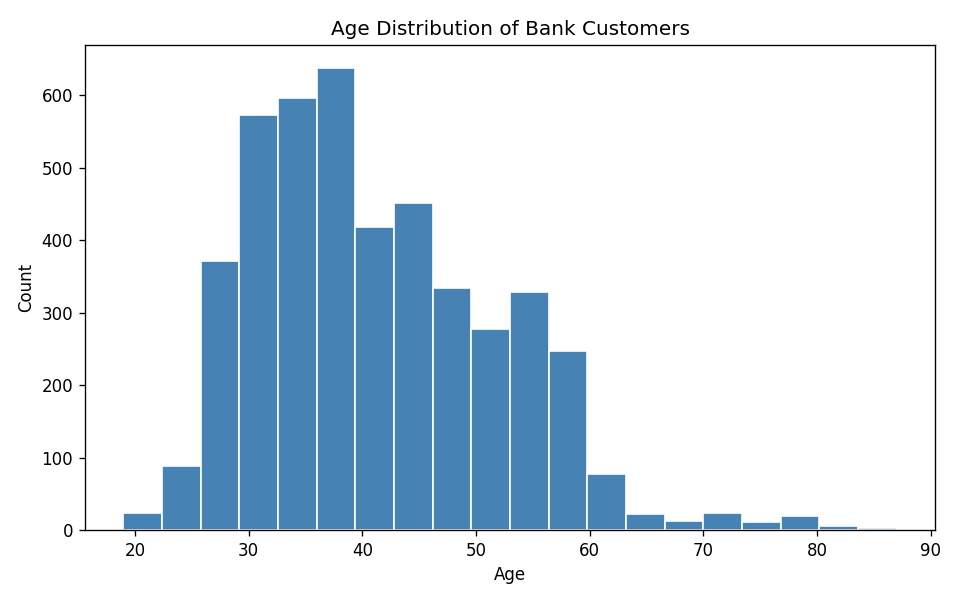
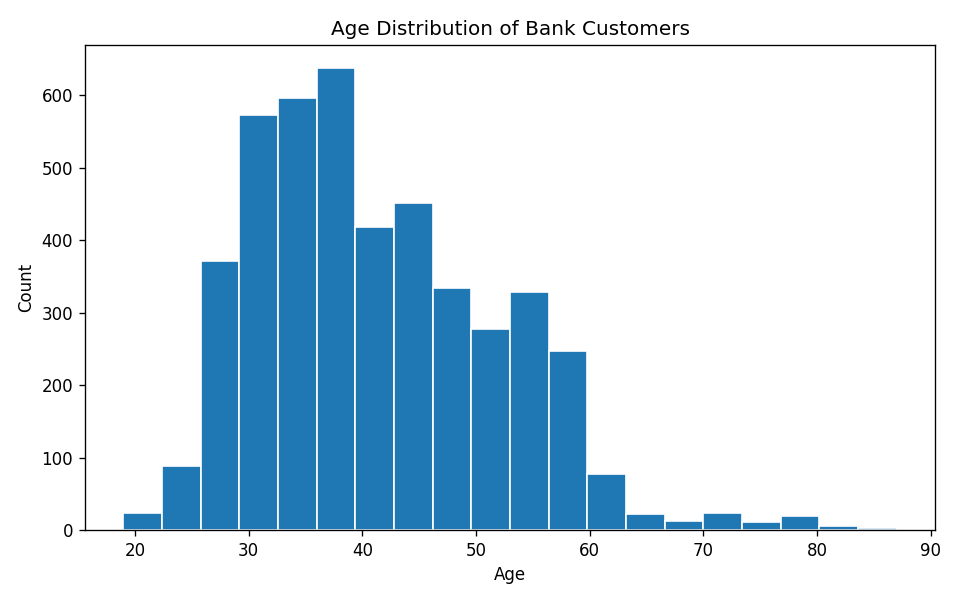
performs EDA with spark and save the artifacts in artifacts

Changed region(s): [[0.125, 0.09, 0.875, 0.9]]

diff --git a/scripts/03_spark_eda.py b/scripts/03_spark_eda.py
@@ -1,84 +1,85 @@
 """
 Exploratory Data Analysis with PySpark.
-Outputs: artifacts/eda/  (plots + summary CSVs)
-Run: spark-submit scripts/03_spark_eda.py
+Outputs: artifacts/eda/ (plots + summary CSVs)
+Run: python scripts/03_spark_eda.py
 """
 
 import sys
 from pathlib import Path
+
 sys.path.insert(0, str(Path(__file__).parent.parent))
 from config import PATHS, verify_paths
+
 verify_paths()
 
 from pyspark.sql import SparkSession
 from pyspark.sql import functions as F
-from pyspark.sql.types import IntegerType
 
-import matplotlib 
-matplotlib.use("Agg")  # headless (no display in WSL)
+import matplotlib
+matplotlib.use("Agg")
 import matplotlib.pyplot as plt
 import seaborn as sns
 
-spark = SparkSession.builder \
-    .appName("BankingEDA") \
-    .master("local[*]") \
-    .config("spark.driver.memory", "2g") \
+spark = (
+    SparkSession.builder
+    .appName("BankingEDA")
+    .master("local[*]")
+    .config("spark.driver.memory", "2g")
     .getOrCreate()
+)
 spark.sparkContext.setLogLevel("ERROR")
 
-# Load data
-
+# Read from HDFS
 csv_path = PATHS["bank_csv_hdfs"]
 
-df = spark.read \
-    .option("header", True) \
-    .option("sep", ",") \
-    .option("inferSchema", True) \
+df = (
+    spark.read
+    .option("header", True)
+    .option("sep", ",")
+    .option("inferSchema", True)
     .csv(csv_path)
+)
 
 print(f"[EDA] Rows: {df.count()}, Cols: {len(df.columns)}")
+print("[EDA] Columns:", df.columns)
 
-# schema + null check
+# Schema + null counts
 df.printSchema()
-null_counts = df.select([F.count(F.when(F.col(c).isNull(), c)).alias(c)
-                          for c in df.columns])
-
+null_counts = df.select(
+    [F.count(F.when(F.col(c).isNull(), c)).alias(c) for c in df.columns]
+)
 null_counts.show()
 
-# Subscription rate by job
-
-job_sub = df.groupBy("job", "y").count() \
-             .orderBy("job")
-
+# Job subscription counts
+job_sub = df.groupBy("job", "y").count().orderBy("job")
 job_sub.toPandas().to_csv(PATHS["eda"] / "job_subscription.csv", index=False)
 
-
-# Age distribution plot
-
+# Age distribution
 age_pd = df.select("age").toPandas()
 
 fig, ax = plt.subplots(figsize=(8, 5))
-ax.hist(age_pd["age"], bins=20, color="steelblue", edgecolor="white")
+ax.hist(age_pd["age"], bins=20, edgecolor="white")
 ax.set_title("Age Distribution of Bank Customers")
-ax.set_xlabel("Age"); ax.set_ylabel("Count")
+ax.set_xlabel("Age")
+ax.set_ylabel("Count")
 fig.tight_layout()
 fig.savefig(PATHS["eda"] / "age_distribution.png", dpi=120)
 plt.close()
 
 # Balance by subscription
-
 bal_pd = df.select("balance", "y").toPandas()
+
 fig, ax = plt.subplots(figsize=(8, 4))
 for label, grp in bal_pd.groupby("y"):
-    ax.hist(grp["balance"].clip(-1000, 10000), bins=40,
-            alpha=0.6, label=f"subscribed={label}")
-ax.set_title("Balance distribution by subscription")
-ax.set_xlabel("Balance"); ax.legend()
+    ax.hist(grp["balance"].clip(-1000, 10000), bins=40, alpha=0.6, label=f"y={label}")
+ax.set_title("Balance Distribution by Subscription")
+ax.set_xlabel("Balance")
+ax.legend()
 fig.tight_layout()
 fig.savefig(PATHS["eda"] / "balance_by_subscription.png", dpi=120)
 plt.close()
 
-# Correlation heatmap (numeric cols)
+# Correlation heatmap
 num_cols = ["age", "balance", "duration", "campaign", "pdays", "previous"]
 corr_pd = df.select(num_cols).toPandas().corr()
 
@@ -89,10 +90,8 @@ fig.tight_layout()
 fig.savefig(PATHS["eda"] / "correlation_heatmap.png", dpi=120)
 plt.close()
 
-# Summary stats -> CSV
-df.describe(num_cols).toPandas().to_csv(
-    PATHS["eda"] / "summary_stats.csv", index=False
-)
+# Summary stats
+df.describe(num_cols).toPandas().to_csv(PATHS["eda"] / "summary_stats.csv", index=False)
 
 print(f"[EDA] All outputs saved to: {PATHS['eda']}")
 spark.stop()

diff --git a/config.py b/config.py
@@ -30,10 +30,13 @@ def verify_paths():
         if key in ["bank_csv", "transactions_csv", "bank_csv_hdfs"]:
             continue
         path.mkdir(parents=True, exist_ok=True)
-    if not PATHS["bank_csv"].exists():
-        print(f"[WARNING] bank.csv missing — place it at: {PATHS['bank_csv']}")
+
+    if PATHS["bank_csv"].exists():
+        print(f"[OK] Local bank.csv found at {PATHS['bank_csv']}")
     else:
-        print(f"[OK] bank.csv found at {PATHS['bank_csv']}")
+        print(f"[WARNING] Local bank.csv missing — expected at: {PATHS['bank_csv']}")
+
+    print(f"[OK] HDFS bank.csv expected at: {PATHS['bank_csv_hdfs']}")
 
 if __name__ == "__main__":
     verify_paths()
